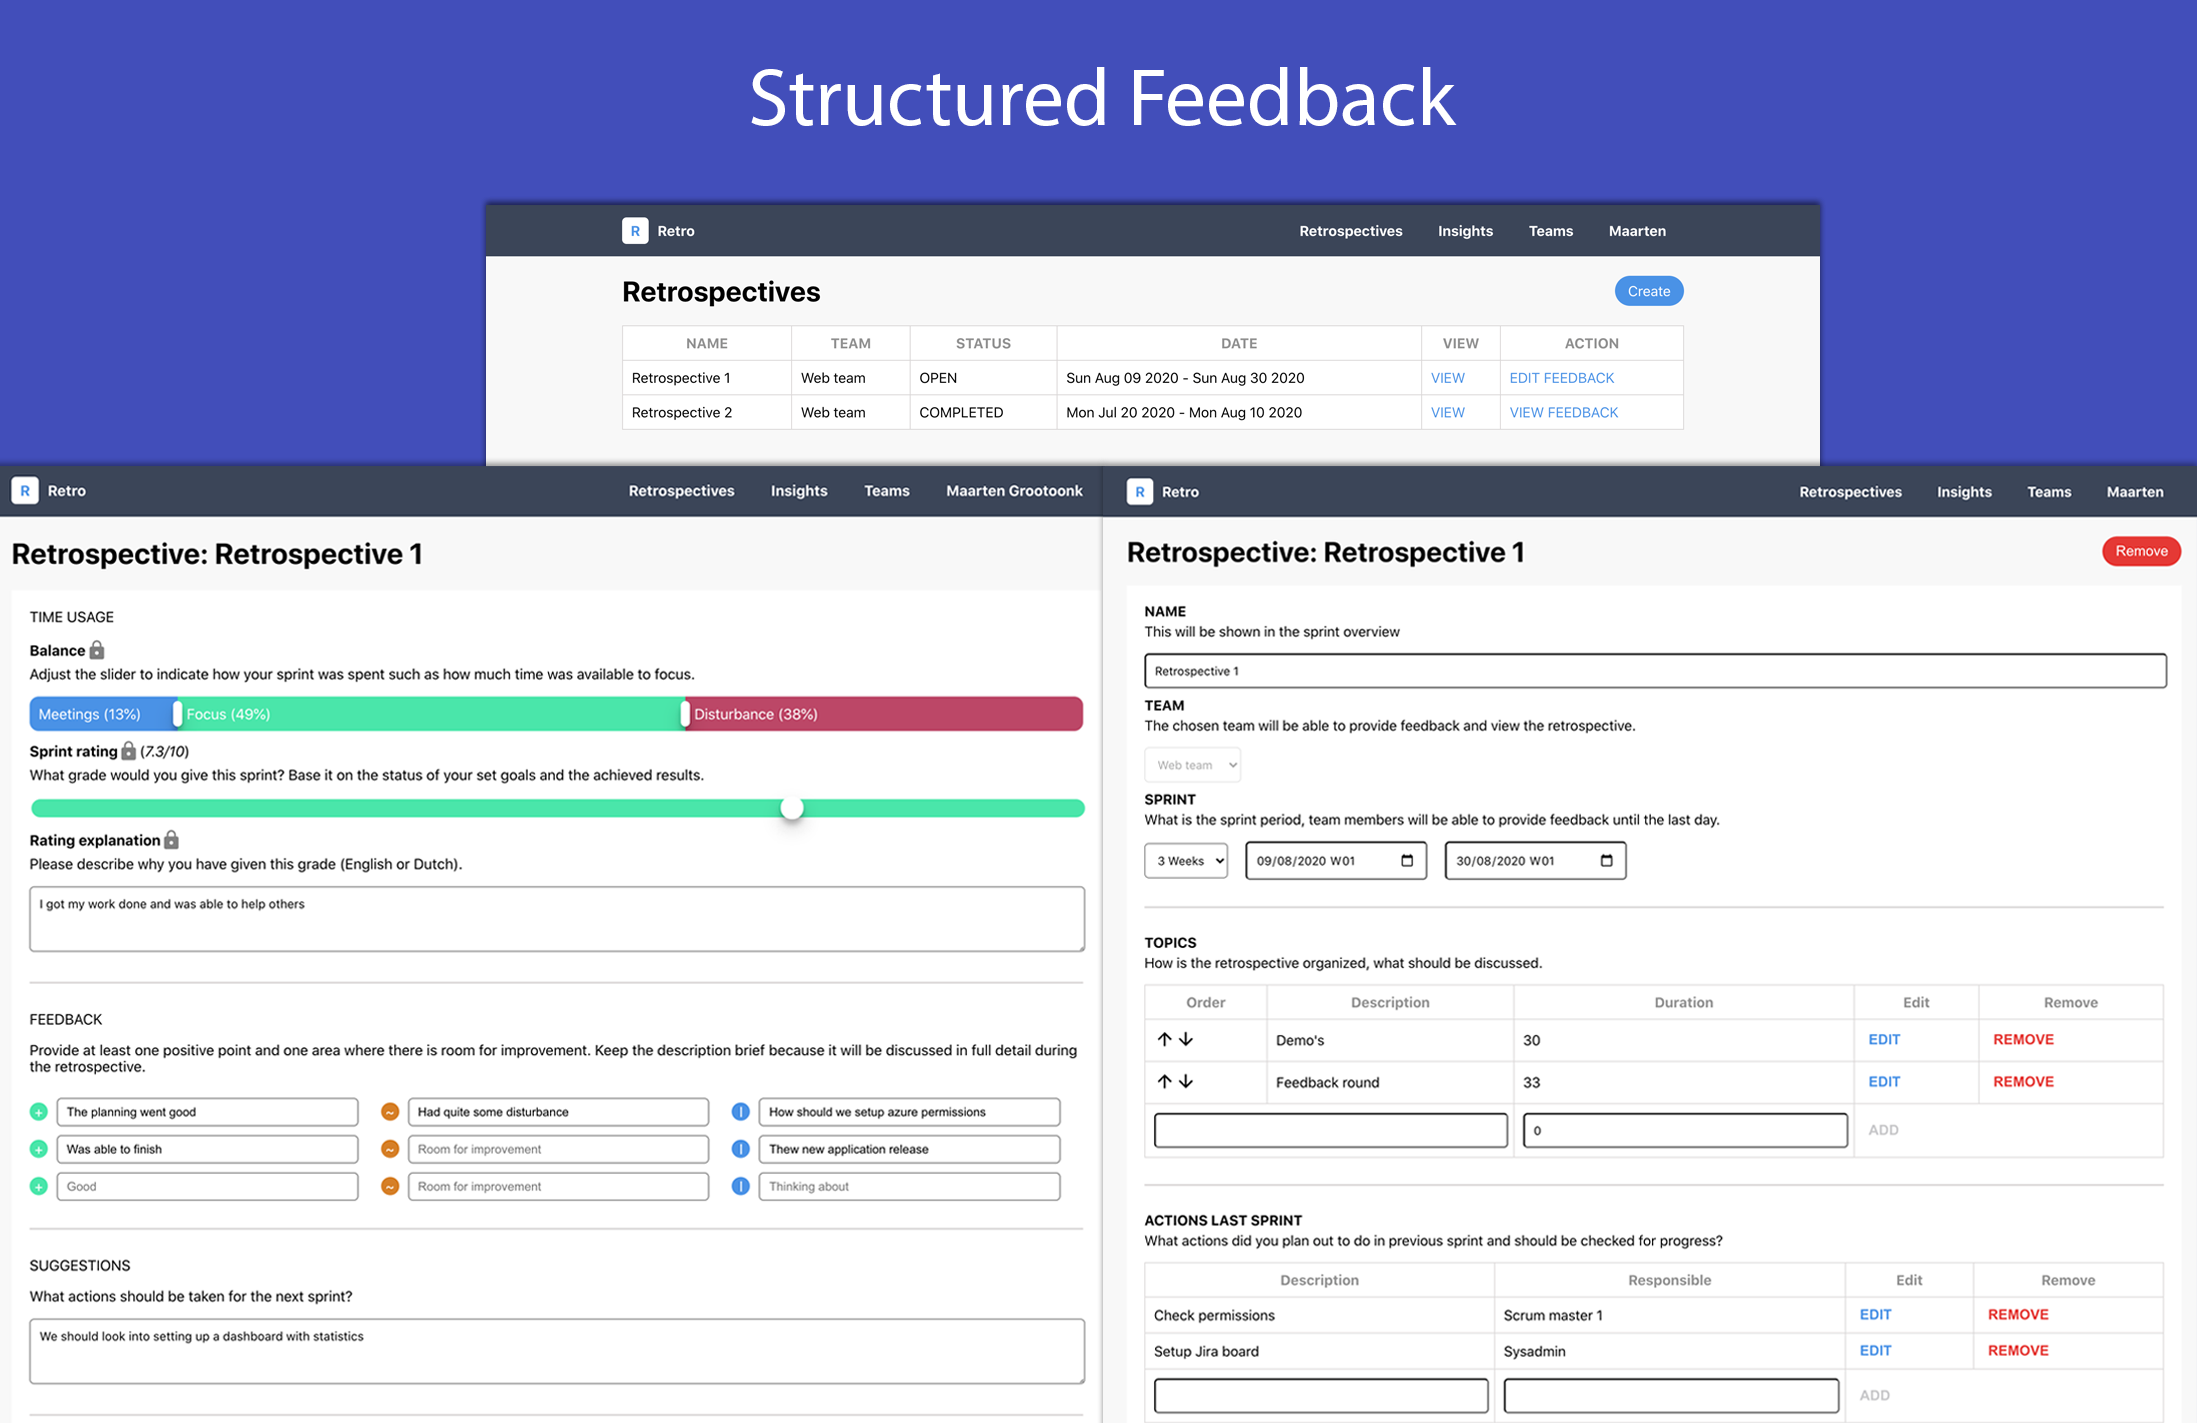
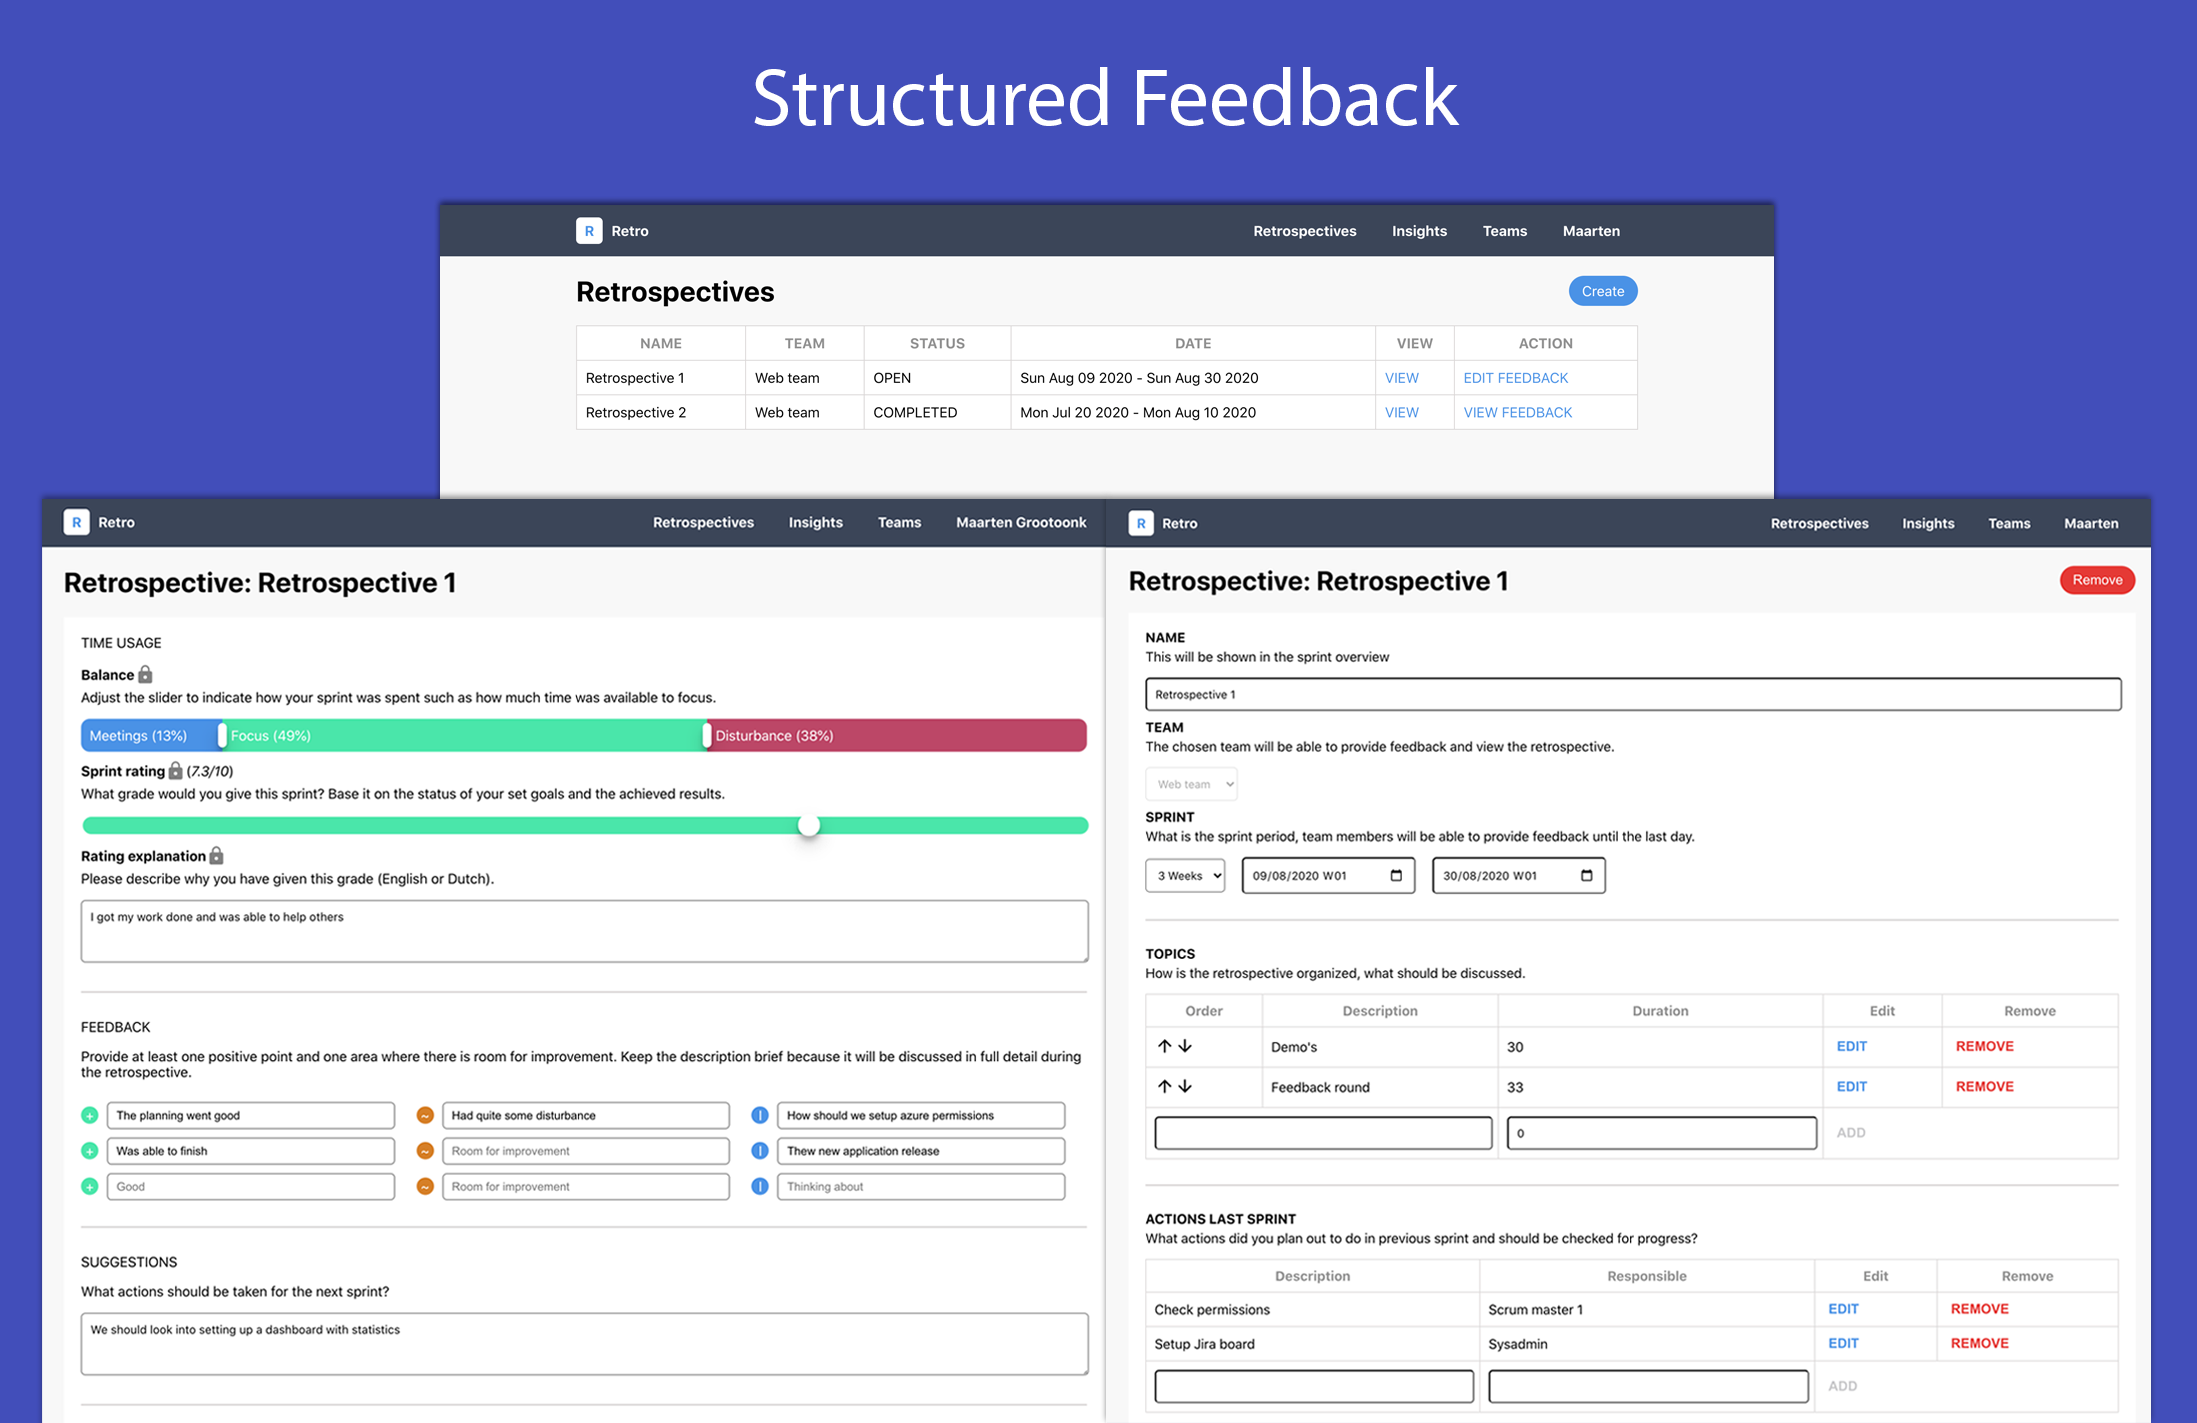
Rename preview file

diff --git a/README.md b/README.md
@@ -6,7 +6,7 @@ Client for retrospective [server](https://github.com/MaartenGDev/dwa-server)
 ![Structured feedback](./docs/structured_feedback.png)
 
 ##### Insights
-![Insights](./docs/insights.png)
+![Insights](./docs/actionable_insights.png)
 
 ## Setup
 1. `npm i`
